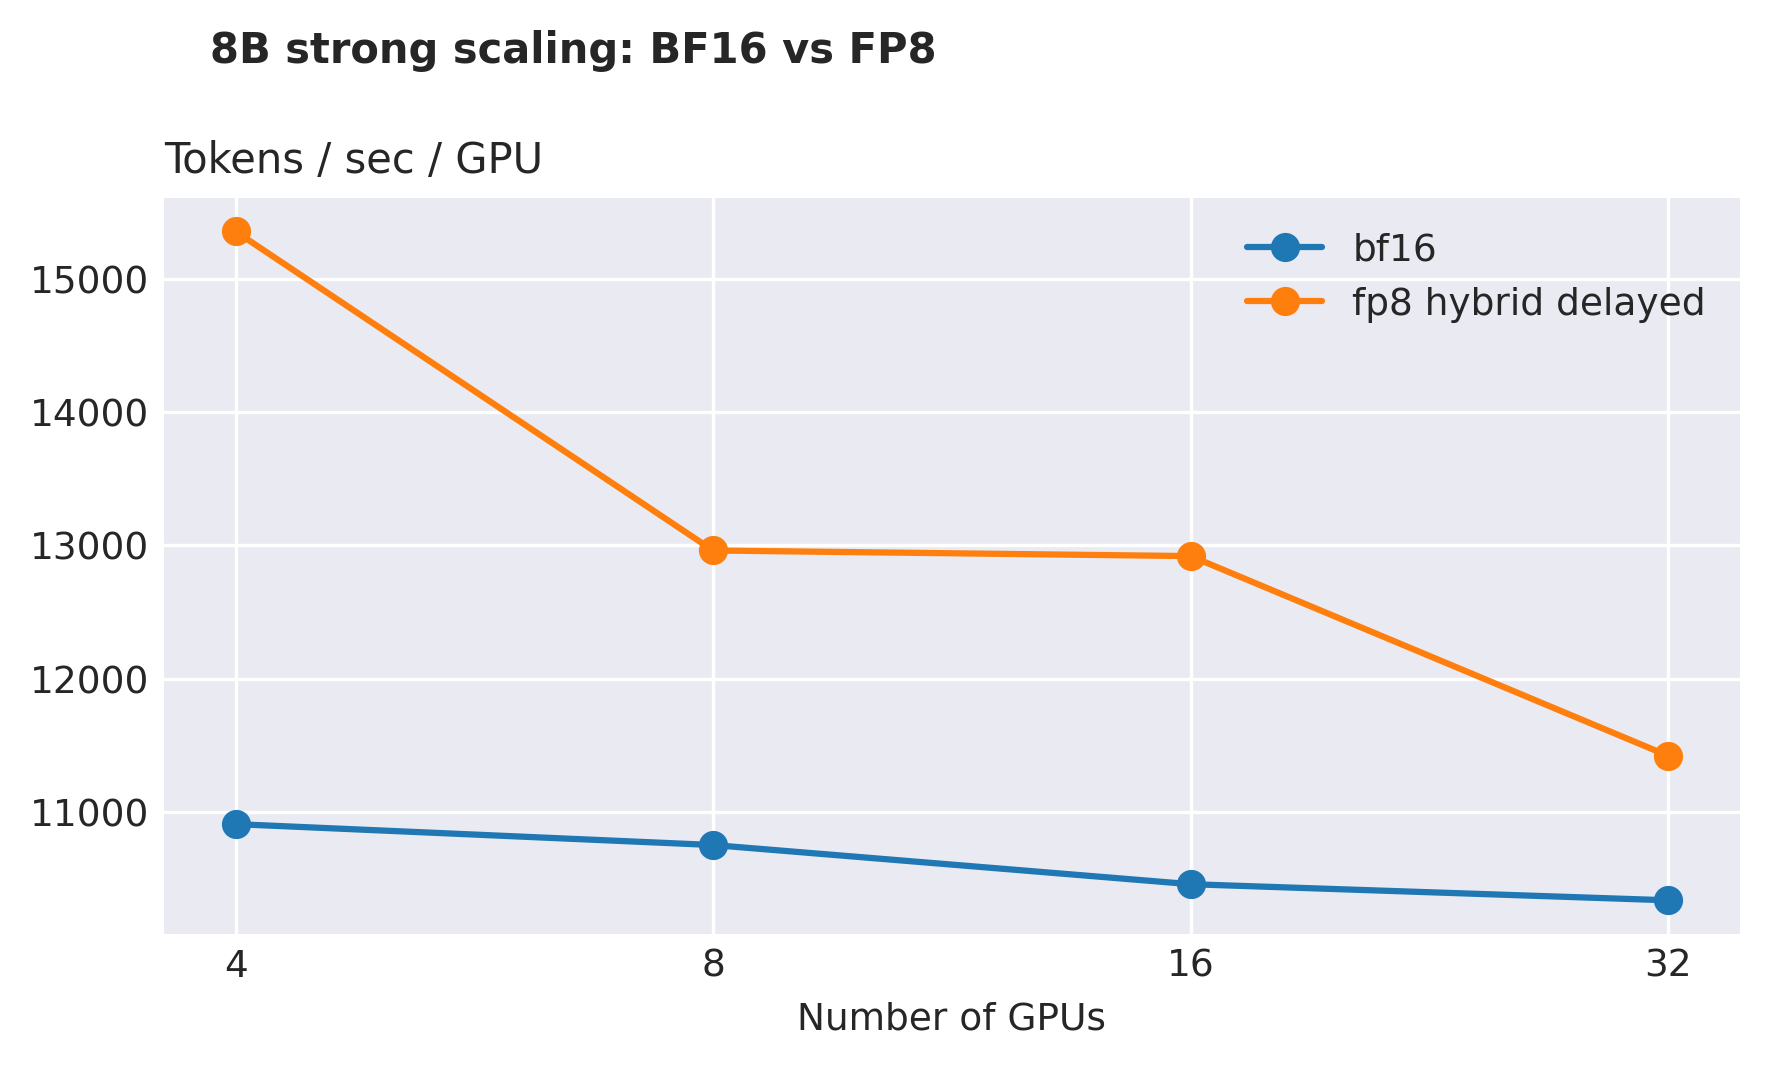
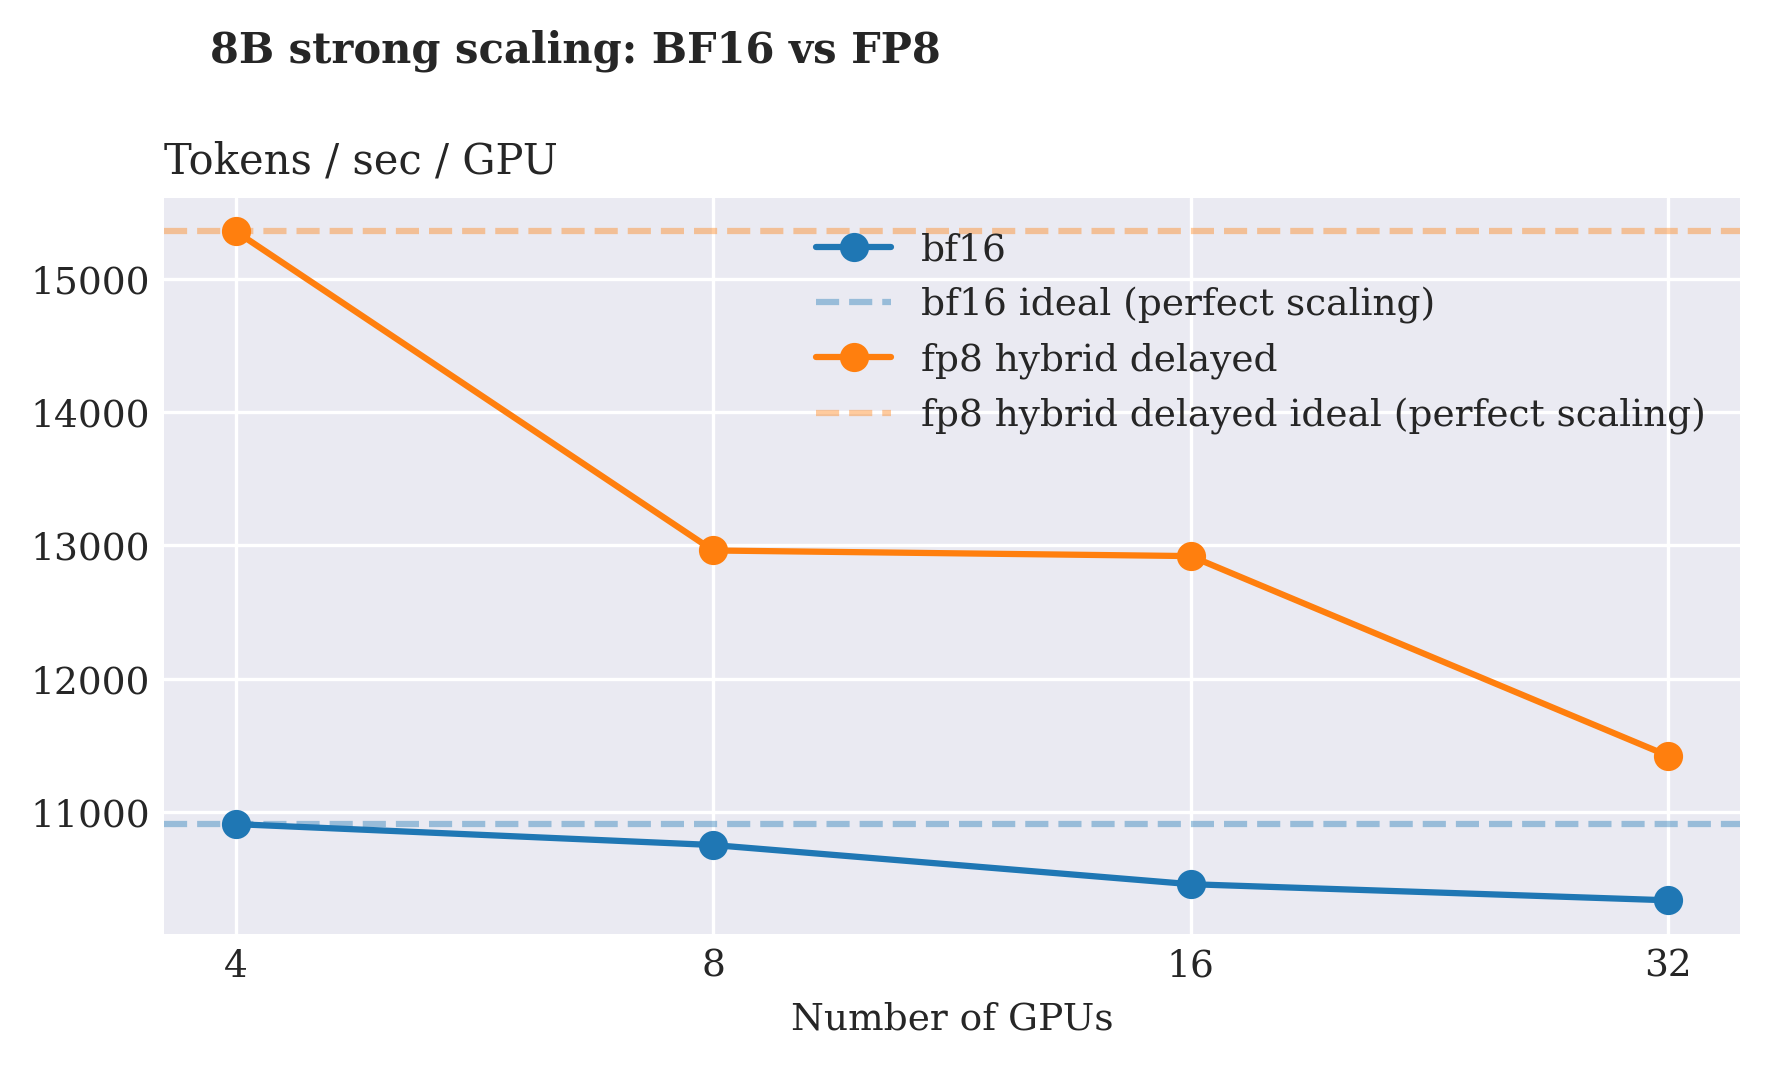
redid plots to have same font as teammates

diff --git a/plot/violinplot.py b/plot/violinplot.py
@@ -198,8 +198,9 @@ def main() -> int:
     args.files = files
 
     plt.style.use("seaborn-v0_8-darkgrid")
-    plt.rcParams["font.family"] = "sans-serif"
-    plt.rcParams["font.sans-serif"] = ["CMU Sans Serif"]
+    plt.rcParams["font.family"] = "serif"
+    plt.rcParams["font.serif"] = ["Times New Roman", "CMU Serif", "Computer Modern Roman", "DejaVu Serif"]
+    plt.rcParams["mathtext.fontset"] = "cm"
     plt.rcParams["font.weight"] = "medium"
     plt.rcParams["axes.unicode_minus"] = False
     plt.rcParams["xtick.labelsize"] = LABEL_FONT_SIZE

diff --git a/plot/scalabilityplot.py b/plot/scalabilityplot.py
@@ -277,8 +277,9 @@ def main() -> int:
             return 1
 
     plt.style.use("seaborn-v0_8-darkgrid")
-    plt.rcParams["font.family"] = "sans-serif"
-    plt.rcParams["font.sans-serif"] = ["CMU Sans Serif"]
+    plt.rcParams["font.family"] = "serif"
+    plt.rcParams["font.serif"] = ["Times New Roman", "CMU Serif", "Computer Modern Roman", "DejaVu Serif"]
+    plt.rcParams["mathtext.fontset"] = "cm"
     plt.rcParams["font.weight"] = "medium"
     plt.rcParams["axes.unicode_minus"] = False
     plt.rcParams["xtick.labelsize"] = LABEL_FONT_SIZE

diff --git a/plot/scatter_plot.py b/plot/scatter_plot.py
@@ -269,8 +269,9 @@ def main() -> int:
             return 1
 
     plt.style.use("seaborn-v0_8-darkgrid")
-    plt.rcParams["font.family"] = "sans-serif"
-    plt.rcParams["font.sans-serif"] = ["CMU Sans Serif"]
+    plt.rcParams["font.family"] = "serif"
+    plt.rcParams["font.serif"] = ["Times New Roman", "CMU Serif", "Computer Modern Roman", "DejaVu Serif"]
+    plt.rcParams["mathtext.fontset"] = "cm"
     plt.rcParams["font.weight"] = "medium"
     plt.rcParams["axes.unicode_minus"] = False
     plt.rcParams["xtick.labelsize"] = LABEL_FONT_SIZE
